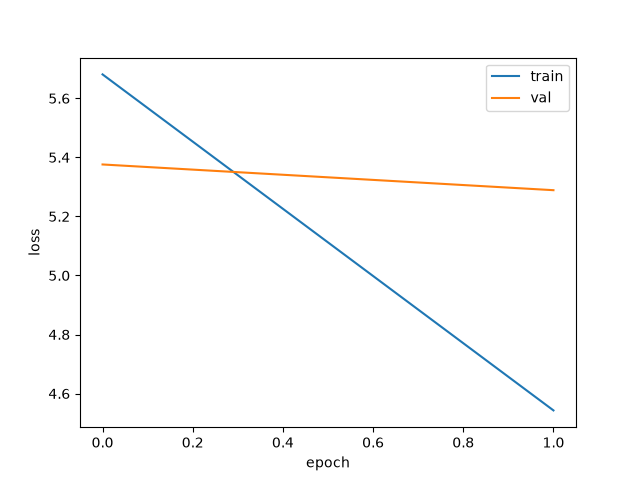
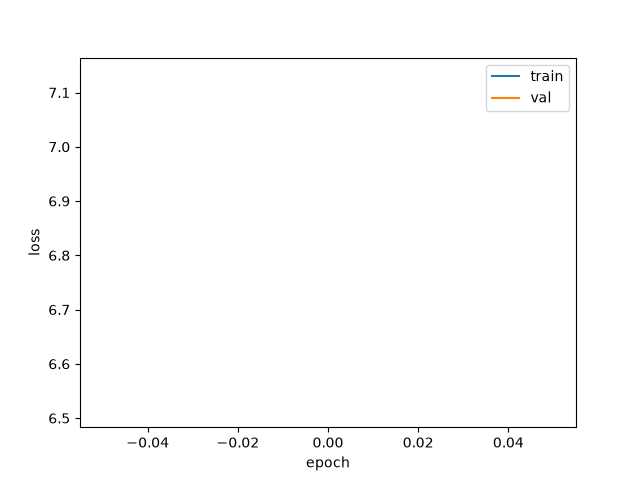
Added Tiktoken

diff --git a/train.py b/train.py
@@ -6,10 +6,11 @@ import torch
 import torch.nn.functional as F
 
 from src.config import BATCH_SIZE, CONTEXT_WINDOW_SIZE, OUTPUT_DIR, STRIDE, OUTPUT_DIR
+from src.config import NUM_EPOCHS
 from src.data_utils import download_text, load_text
 from src.dataset import create_gpt_dataloader
 from src.gpt_model import GPTModel
-from src.tokenizer import Tokenizer, build_vocab, save_vocab
+from src.tokenizer import Tokenizer, build_vocab, save_vocab, TikTokenizer
 import matplotlib.pyplot as plt
 import numpy as np
 
@@ -22,17 +23,17 @@ raw_text = load_text()
 logging.info(f"  {len(raw_text):,} chars loaded")
 
 # 2. Load vocab
-vocab_path = os.path.join(OUTPUT_DIR, "vocab.json")
-if os.path.exists(vocab_path):
-    with open(vocab_path) as f:
-        vocab = json.load(f)
-    logging.info(f"  Loaded vocab ({len(vocab):,} tokens)")
-else:
-    vocab = build_vocab(raw_text)
-    save_vocab(vocab, OUTPUT_DIR)
-    logging.info(f"  Built vocab ({len(vocab):,} tokens)")
+# vocab_path = os.path.join(OUTPUT_DIR, "vocab.json")
+# if os.path.exists(vocab_path):
+#     with open(vocab_path) as f:
+#         vocab = json.load(f)
+#     logging.info(f"  Loaded vocab ({len(vocab):,} tokens)")
+# else:
+#     vocab = build_vocab(raw_text)
+#     save_vocab(vocab, OUTPUT_DIR)
+#     logging.info(f"  Built vocab ({len(vocab):,} tokens)")
 
-tokenizer = Tokenizer(vocab)
+tokenizer = TikTokenizer("gpt2")
 
 # 3. Create dataloaders (90% train, 10% val)
 split = int(len(raw_text) * 0.9)
@@ -62,6 +63,12 @@ logging.info(f"  Model: {total_params:,} params | device: {device}")
 
 # 5. Loss function
 def calc_loss(logits, targets):
+    # batches, tokens, embeddings = logits.shape
+    # losses = []
+    # for batch in len(batches):
+    #     loss = F.cross_entropy(logits[batch], targets[batch])
+    #     losses.append(loss)
+    # return torch.stack(losses).mean()
     B, T, V = logits.shape
     # flatten (batch, seq_len) into one dimension for cross_entropy
     return F.cross_entropy(logits.view(B * T, V), targets.view(B * T))
@@ -73,7 +80,11 @@ def generate(prompt, num_tokens=20):
     ids = tokenizer.encode(prompt)
     with torch.no_grad():
         for _ in range(num_tokens):
+            # input context size - 1024 so this model can only have a prompt size of 1023
+            # production approach is to have sinusoidal position embeddings
             input_ids = torch.tensor([ids]).to(device)  # (1, seq_len)
+            if len(input_ids) > 1023:
+                raise ValueError("input_ids greater than model context size")
             logits = model(input_ids)  # (1, seq_len, vocab_size)
             next_id = (
                 logits[0, -1, :].argmax().item()
@@ -83,7 +94,6 @@ def generate(prompt, num_tokens=20):
 
 
 # 7. Train loop
-NUM_EPOCHS = 10
 logging.info(f"Starting training for {NUM_EPOCHS} epochs...\n")
 history = []
 for epoch in range(1, NUM_EPOCHS + 1):
@@ -126,3 +136,7 @@ plt.xlabel("epoch")
 plt.ylabel("loss")
 plt.savefig(os.path.join(OUTPUT_DIR, "train_validation_curve.png"))
 plt.close
+
+
+torch.save(model.state_dict(), os.path.join(OUTPUT_DIR, "model.pth"))
+logging.info("Saved model")

diff --git a/src/tokenizer.py b/src/tokenizer.py
@@ -2,6 +2,7 @@ import re
 from typing import Iterable
 import os
 import json
+import tiktoken
 
 _PATTERN = re.compile(r'([,.:;?_!"()\']|--|\s)')
 
@@ -35,3 +36,14 @@ class Tokenizer:
 
     def decode(self, tokens: Iterable[int]) -> str:
         return " ".join(self.int_to_str.get(t, "<unk>") for t in tokens)
+
+
+class TikTokenizer:
+    def __init__(self, model_type: str) -> None:
+        self.tokenizer = tiktoken.get_encoding(model_type)
+
+    def encode(self, text: str) -> list[int]:
+        return self.tokenizer.encode(text)
+
+    def decode(self, tokens: Iterable[int]) -> str:
+        return self.tokenizer.decode(list(tokens))

diff --git a/src/config.py b/src/config.py
@@ -3,13 +3,14 @@ import os
 DATA_URL = "https://raw.githubusercontent.com/rasbt/LLMs-from-scratch/main/ch02/01_main-chapter-code/the-verdict.txt"
 OUTPUT_DIR = os.path.join(os.path.dirname(__file__), "..", "artifacts")
 DATASET_PATH = os.path.join(OUTPUT_DIR, "dataset.txt")
-CONTEXT_WINDOW_SIZE = 64  # how many tokens are sent for training
-VOCAB_SIZE = 1078  # based on the tokenizer
-CONTEXT_LENGTH = 64  # how much back can my model read
+CONTEXT_WINDOW_SIZE = 32  # how many tokens are sent for training
+VOCAB_SIZE = 50257  # based on the tokenizer
+CONTEXT_LENGTH = 1024  # how much back can my model read
 BATCH_SIZE = 10  # pytorch dataloader batching
 STRIDE = 1  # overlap between windows
 EMBED_DIM = 64  # number of dimensions
 HEAD_DIM = 32  # GPT-2 always uses head_dim=64
 NUM_HEADS = 2  # embed_dim / head_dim = 128 / 64
-DROP_RATE = 0.1  # dropout rate
-N_LAYER = 12  # number of repeated transformers
+DROP_RATE = 0.0  # dropout rate
+N_LAYER = 1  # number of repeated transformers
+NUM_EPOCHS = 1  # model training epochs

diff --git a/src/attention.py b/src/attention.py
@@ -40,12 +40,18 @@ class CausalSelfAttention(nn.Module):
         K = self.W_key(x)
         V = self.W_value(x)
 
+        # We divide by square root of head_dim becuase Q@K.T will have large values, causing softmax to output near 1  -> gradient zero -> learning stalls
         scores = Q @ K.transpose(-2, -1) / self.head_dim**0.5
+
+        # Create a upper triangular mask for masking out tokens ahead of the token, not reusing a mask for simplicity, tradeoff - mask created at every fsorward pass
         mask = torch.triu(
             torch.ones(seq_len, seq_len, device=x.device), diagonal=1
-        ).bool()  # not reusing a mask for simplicity, tradeoff - mask created at every forward pass
+        ).bool()
         scores = scores.masked_fill(mask, float("-inf"))
+
+        # Softmax of negative infinity will be zero,
         weights = torch.softmax(scores, dim=-1)
+
         weights = self.dropout(weights)
         output = weights @ V
         return output, weights

diff --git a/src/dataset.py b/src/dataset.py
@@ -1,7 +1,7 @@
 import torch
 from torch.utils.data import Dataset, DataLoader
 
-from src.tokenizer import Tokenizer
+from src.tokenizer import Tokenizer, TikTokenizer
 
 
 class GPTDataset(Dataset):
@@ -15,7 +15,7 @@ class GPTDataset(Dataset):
     """
 
     def __init__(
-        self, text: str, tokenizer: Tokenizer, max_len: int, stride: int
+        self, text: str, tokenizer: TikTokenizer, max_len: int, stride: int
     ) -> None:
         self.input_ids: list[torch.Tensor] = []
         self.target_ids: list[torch.Tensor] = []
@@ -36,7 +36,7 @@ class GPTDataset(Dataset):
 
 def create_gpt_dataloader(
     text: str,
-    tokenizer: Tokenizer,
+    tokenizer: TikTokenizer,
     max_len: int = 3,
     stride: int = 1,
     batch_size: int = 10,